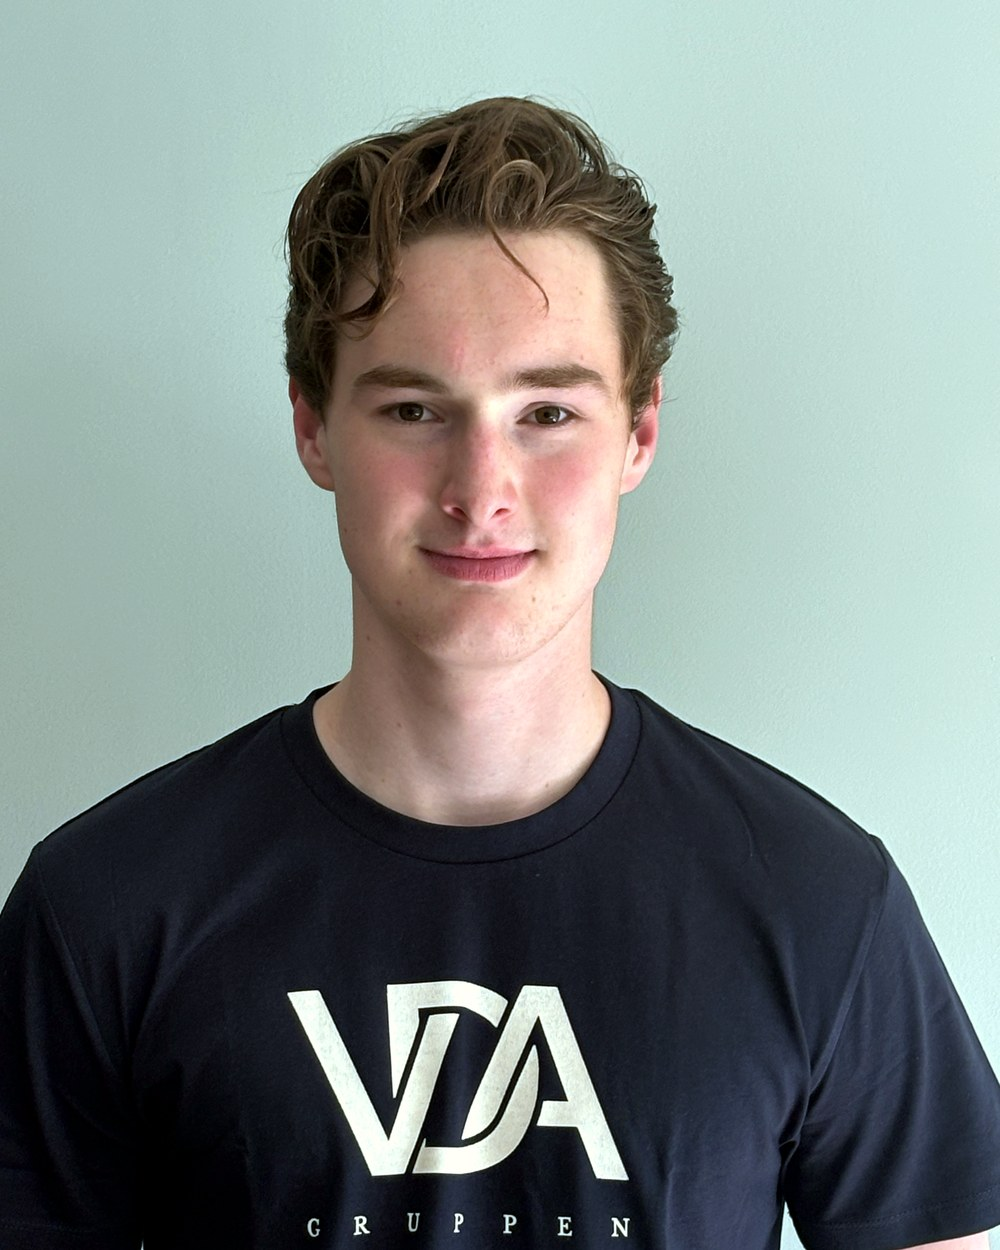
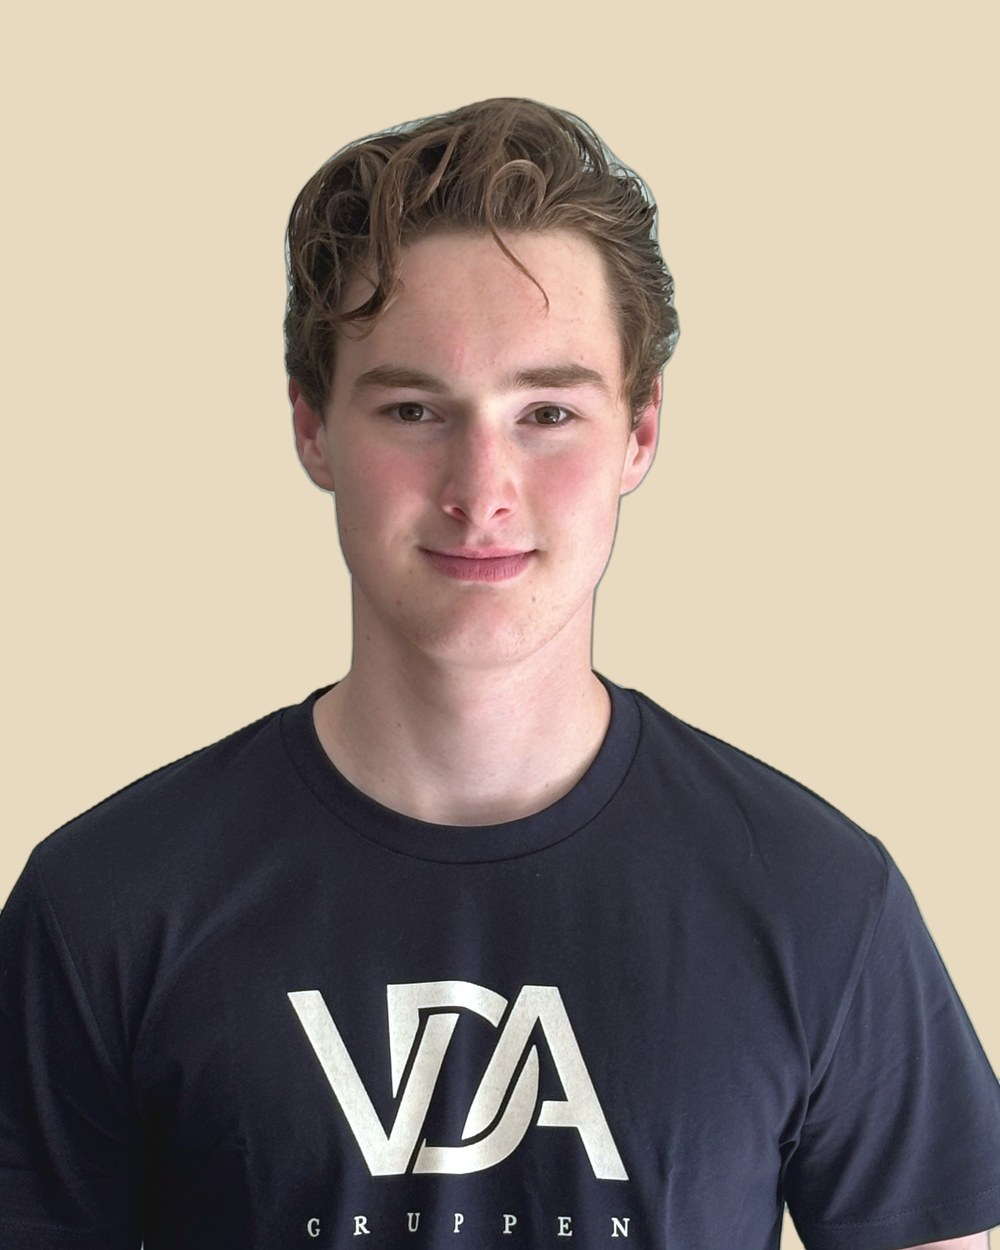
Teamportretter: identisk creme-bakgrunn på begge (utklipping), svart-hvitt med farge på hover

diff --git a/index.html b/index.html
@@ -280,6 +280,10 @@ h2{font-size:clamp(25px,3vw,34px);line-height:1.3;max-width:26ch}
 /* ---------- TEAM (skall — aktiveres når bildene er tatt) ---------- */
 .team{margin-top:56px;display:grid;grid-template-columns:repeat(auto-fit,minmax(220px,1fr));gap:40px}
 .person img{width:100%;max-width:260px;aspect-ratio:4/5;object-fit:cover;display:block}
+@media(hover:hover){
+  .person img{filter:grayscale(1);transition:filter .35s ease}
+  .person:hover img{filter:grayscale(0)}
+}
 .person-kontakt{font-size:13px;margin-top:8px}
 .person-kontakt a{color:var(--vda-grey);text-decoration:none}
 .person-kontakt a:hover{color:var(--vda-brass)}
